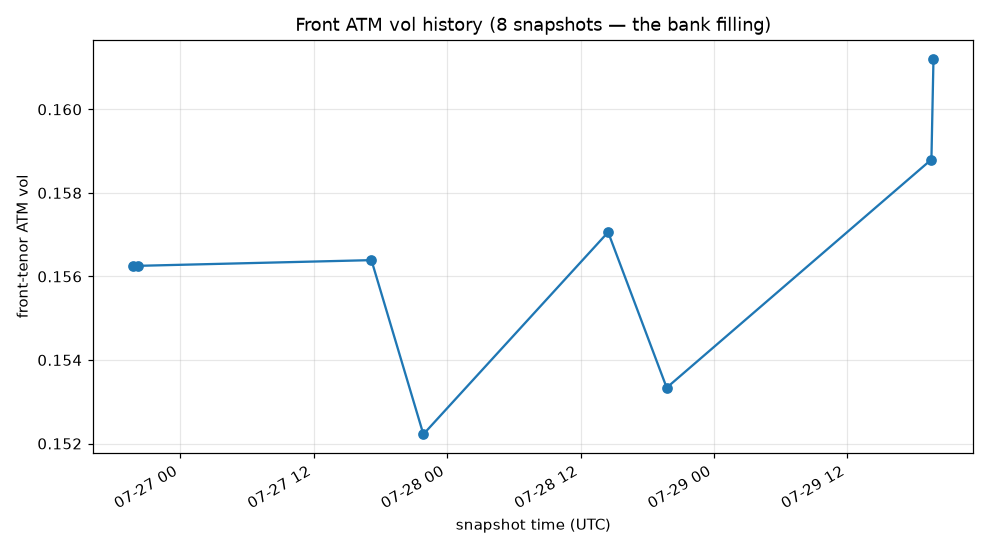
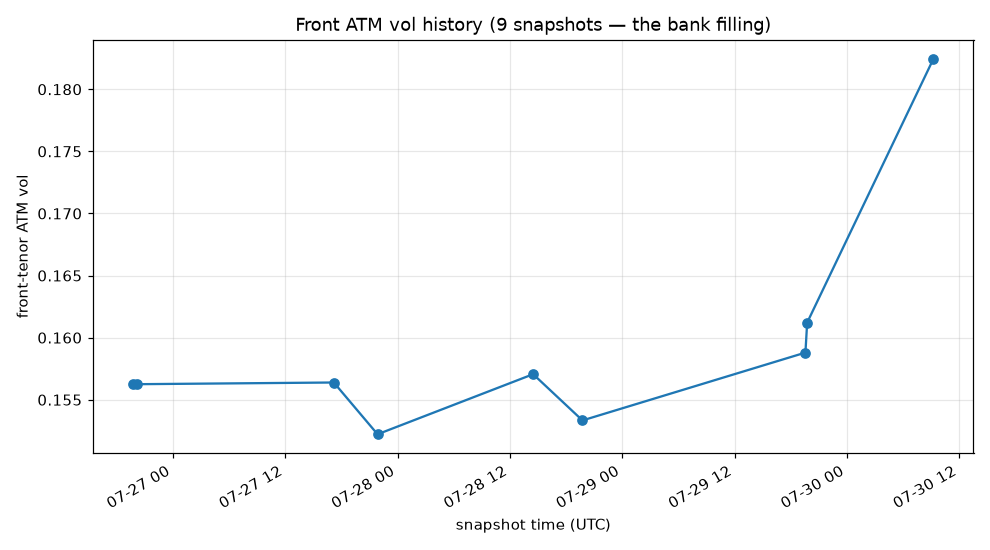
M4.1: position risk engine (net greeks + spot x vol stress grid)
- position.py: net_greeks, position_value, stress_grid; x100 multiplier, signed qty
- sticky-strike repricing via Black-Scholes engine
- verified: long/short call greek signs, worst-case bottom-left (spot down vol down)
- risk_check.py regression on known positions

diff --git a/src/risk/position.py b/src/risk/position.py
@@ -1,0 +1,77 @@
+"""Position risk: net greeks and a spot x vol P&L stress grid.
+
+A position is a list of legs. Option legs reprice through the Black-Scholes
+engine; net greeks are the signed-quantity-weighted sum. Contract multiplier
+is 100 (one option controls 100 shares) — applied to every option leg.
+
+Sticky-strike stress (M4.1): under a spot/vol shock, each option keeps its
+current IV. Sticky-moneyness (surface-aware) comes in M4.2.
+"""
+import numpy as np
+
+from src.pricing.black_scholes import bs_price, bs_greeks
+
+MULT = 100  # option contract multiplier
+
+
+def _option_T(expiry, snapshot_date):
+    """Year-fraction to expiry, act/365."""
+    return (np.datetime64(expiry) - np.datetime64(snapshot_date)).astype(int) / 365.0
+
+
+def price_leg(leg, S, r, q, spot_shock=0.0, vol_shock=0.0):
+    """
+    Price a single leg (per-unit, before qty/multiplier), given shocks.
+    leg option: {"type":"option","right","strike","iv","T","qty"}
+    leg stock:  {"type":"underlying","qty"}
+    spot_shock: fractional (e.g. -0.05 for -5%). vol_shock: absolute vol points.
+    """
+    S_shocked = S * (1.0 + spot_shock)
+    if leg["type"] == "underlying":
+        return S_shocked                      # one share worth S_shocked
+    sigma = leg["iv"] + vol_shock
+    sigma = max(sigma, 1e-6)                  # vol can't go <= 0
+    return bs_price(S_shocked, leg["strike"], leg["T"], r, sigma, q, leg["right"])
+
+
+def net_greeks(position, S, r, q):
+    """Signed-quantity-weighted, multiplier-scaled net greeks of the position."""
+    tot = {"delta": 0.0, "gamma": 0.0, "vega": 0.0, "theta": 0.0, "rho": 0.0}
+    for leg in position:
+        qty = leg["qty"]
+        if leg["type"] == "underlying":
+            tot["delta"] += qty              # 1 share = 1 delta, no multiplier
+            continue
+        g = bs_greeks(S, leg["strike"], leg["T"], r, leg["iv"], q, leg["right"])
+        for key in tot:
+            tot[key] += qty * MULT * g[key]  # options: x100 x qty
+    return tot
+
+
+def position_value(position, S, r, q, spot_shock=0.0, vol_shock=0.0):
+    """Total position value under a given shock (signed qty, multiplier applied)."""
+    val = 0.0
+    for leg in position:
+        px = price_leg(leg, S, r, q, spot_shock, vol_shock)
+        mult = 1 if leg["type"] == "underlying" else MULT
+        val += leg["qty"] * mult * px
+    return val
+
+
+def stress_grid(position, S, r, q,
+                spot_shocks=(-0.05, -0.03, -0.01, 0.0, 0.01, 0.03, 0.05),
+                vol_shocks=(-0.05, -0.02, 0.0, 0.02, 0.05)):
+    """
+    P&L grid: for each (spot_shock, vol_shock), P&L = value(shocked) - value(base).
+    Returns (grid array [len(vol) x len(spot)], worst_case dict).
+    """
+    base = position_value(position, S, r, q, 0.0, 0.0)
+    grid = np.zeros((len(vol_shocks), len(spot_shocks)))
+    worst = {"pnl": np.inf}
+    for i, vs in enumerate(vol_shocks):
+        for j, ss in enumerate(spot_shocks):
+            pnl = position_value(position, S, r, q, ss, vs) - base
+            grid[i, j] = pnl
+            if pnl < worst["pnl"]:
+                worst = {"pnl": pnl, "spot_shock": ss, "vol_shock": vs}
+    return grid, worst, base

diff --git a/scripts/risk_check.py b/scripts/risk_check.py
@@ -1,0 +1,36 @@
+"""Verify the risk engine on positions with known behaviour."""
+import numpy as np
+from src.risk.position import net_greeks, stress_grid, position_value
+
+# Base market: SPY-like
+S, r, q = 737.0, 0.039, 0.012
+
+# --- TEST 1: single long call. Net greeks must equal bs_greeks * 100. ---
+long_call = [{"type": "option", "right": "call", "strike": 740,
+              "iv": 0.16, "T": 0.25, "qty": 1}]
+g = net_greeks(long_call, S, r, q)
+print("Long 1 call, net greeks (x100):")
+for k, v in g.items():
+    print(f"  {k:6s} {v:+.4f}")
+print("  -> delta should be ~+ (long call), vega +, theta - (decay)")
+
+# --- TEST 2: sign flips for a SHORT call ---
+short_call = [{"type": "option", "right": "call", "strike": 740,
+               "iv": 0.16, "T": 0.25, "qty": -1}]
+gs = net_greeks(short_call, S, r, q)
+print(f"\nShort 1 call: delta {gs['delta']:+.4f} (should be NEGATIVE, mirror of long)")
+print(f"              vega  {gs['vega']:+.4f} (should be NEGATIVE — short vol)")
+
+# --- TEST 3: stress grid for the long call. ---
+grid, worst, base = stress_grid(long_call, S, r, q)
+print(f"\nLong call base value: {base:.2f}")
+print("Stress P&L grid (rows=vol shock, cols=spot shock):")
+spot_shocks = (-0.05, -0.03, -0.01, 0.0, 0.01, 0.03, 0.05)
+vol_shocks = (-0.05, -0.02, 0.0, 0.02, 0.05)
+print("          " + "".join(f"{ss:+.0%}".rjust(9) for ss in spot_shocks))
+for i, vs in enumerate(vol_shocks):
+    row = "".join(f"{grid[i,j]:+9.0f}" for j in range(len(spot_shocks)))
+    print(f"  vol{vs:+.0%} {row}")
+print(f"\nWorst case: {worst['pnl']:+.0f} at spot {worst['spot_shock']:+.0%}, "
+      f"vol {worst['vol_shock']:+.0%}")
+print("  -> for a LONG call, worst case should be spot DOWN + vol DOWN")

diff --git a/scripts/surface_metrics.py b/scripts/surface_metrics.py
@@ -67,7 +67,9 @@ for m in skew_metrics(fit, slices):
     print(f"  {m['T']:.3f}  {m['atm_skew_slope']:+.4f}   "
           f"{m['rr_proxy_10pct']:+.4f}   {m['put_wing_vol']:.4f}   {m['call_wing_vol']:.4f}")
 
-print("\n=== IV RANK (scaffold) ===")
-# History will come from past snapshots later; for now, just today's front vol.
-rank = iv_rank(ts["front_atm_vol"], history_atm_vols=[ts["front_atm_vol"]])
+print("\n=== IV RANK ===")
+from src.pricing.metrics import build_atm_history
+history = build_atm_history("data/derived/date=*/enriched_*.parquet", r, q)
+vols = [h["atm_vol"] for h in history if h["atm_vol"] is not None]
+rank = iv_rank(ts["front_atm_vol"], history_atm_vols=vols)
 print(f"  {rank}")
